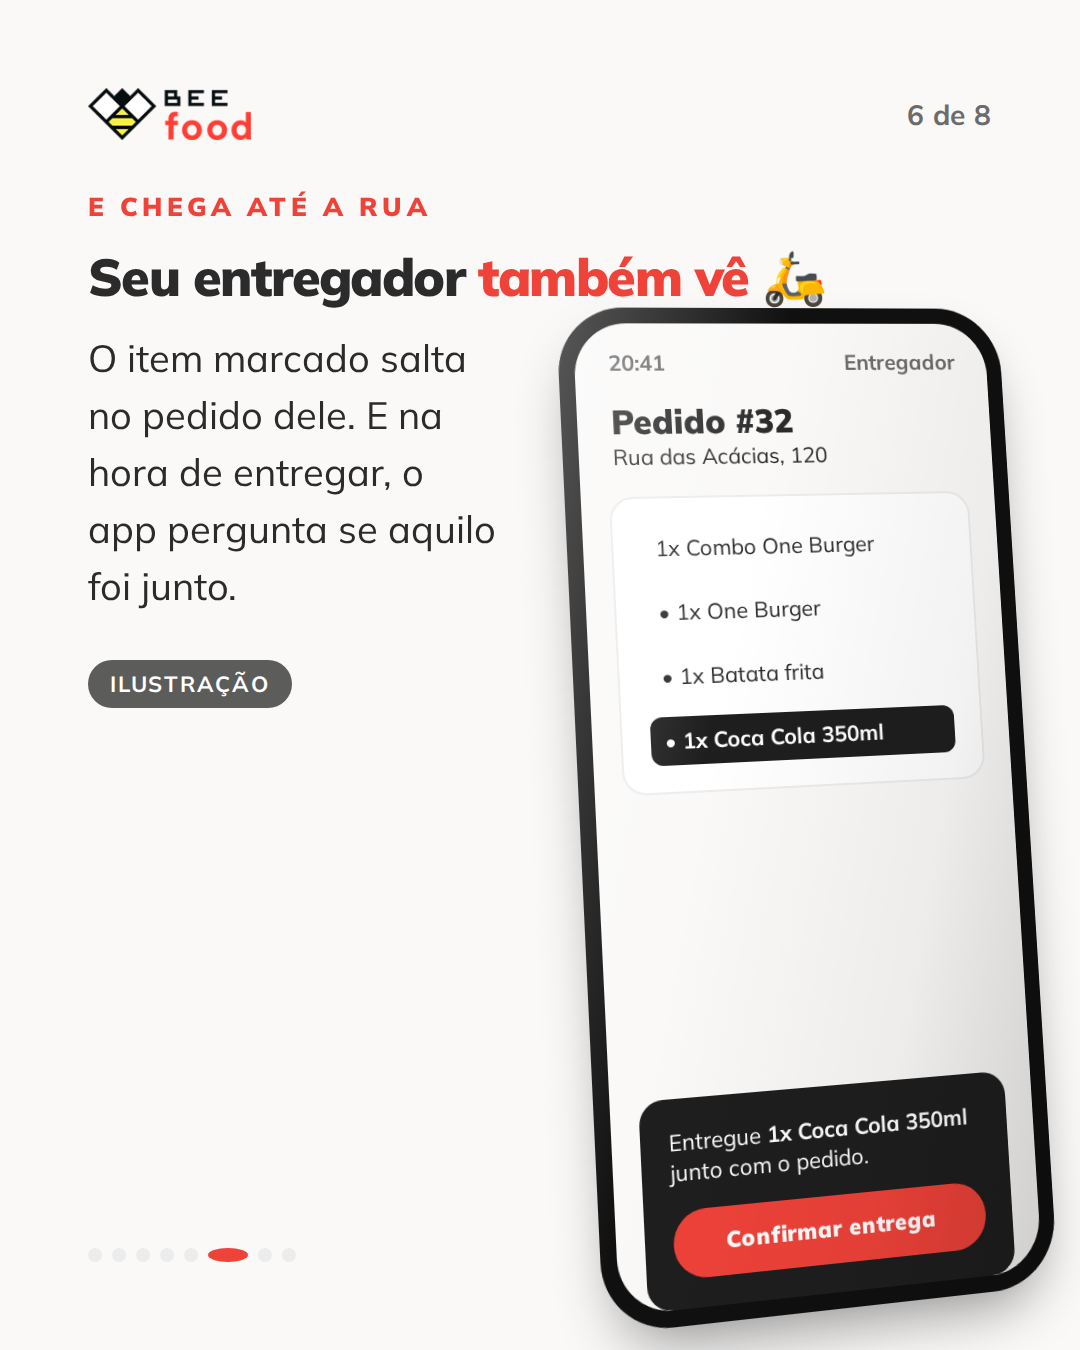
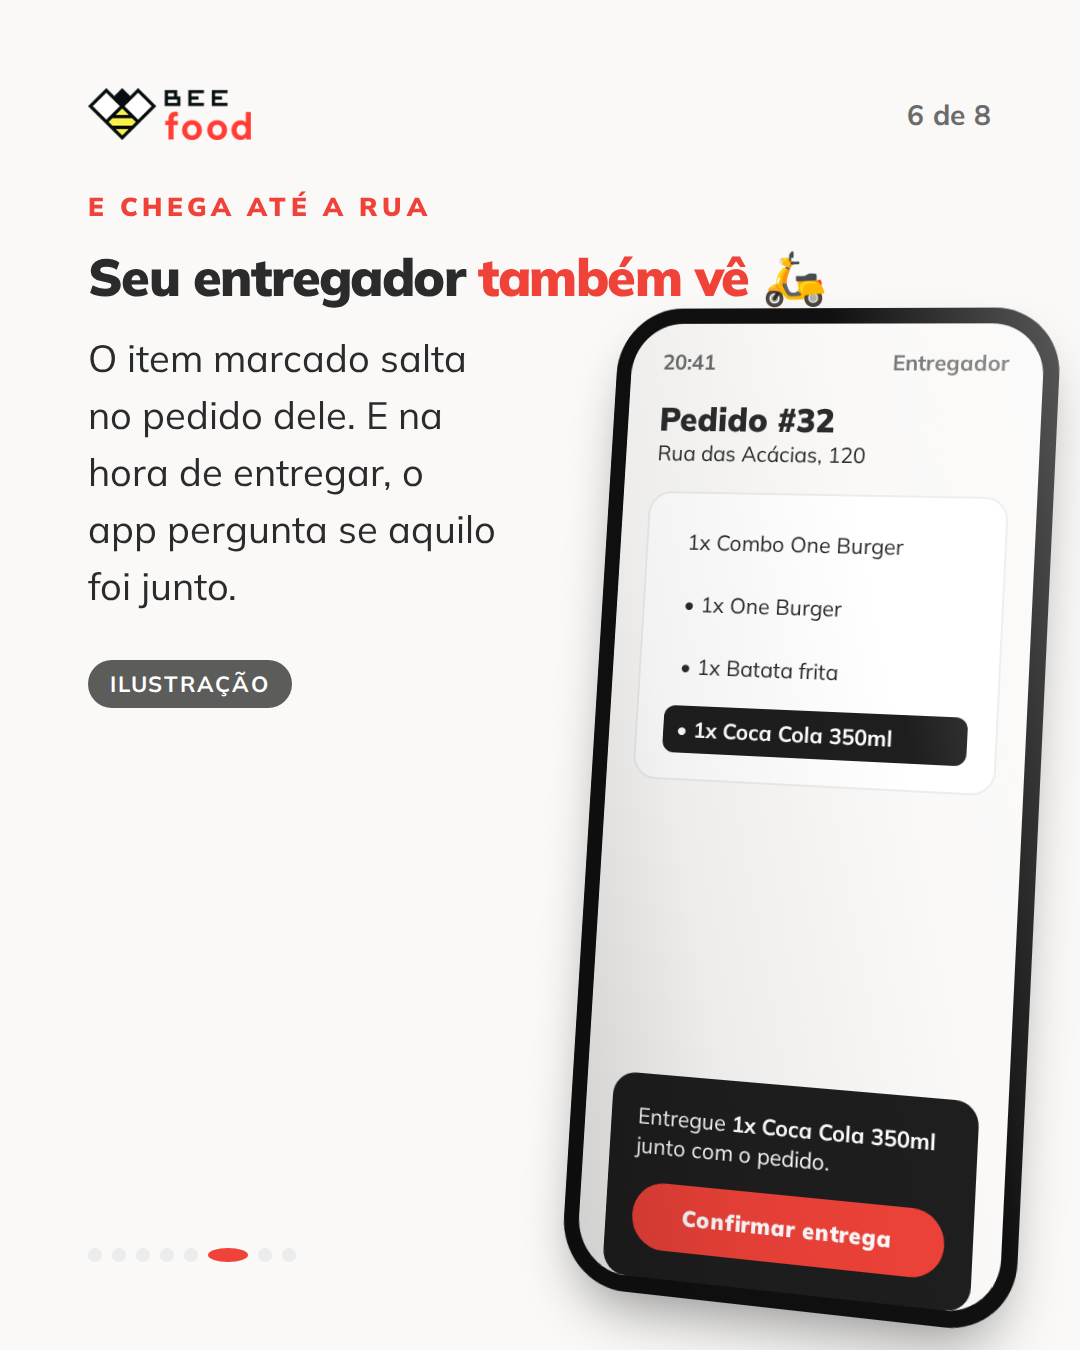
carrossel: 3D sempre virado para dentro, e classe nomeada pelo lado do mockup
- .g3d--na-direita / --na-esquerda substituem --direita / --esquerda: o nome
  passa a ser o lado do slide em que o mockup esta, e o giro e sempre para
  dentro, com a quina que aponta para o texto afundando
- luz e sombra espelham junto com o giro, vindo do lado da quina da frente
- slide 6 e o modelo ilustracao-app.html invertidos; o vao entre a coluna de
  texto e o aparelho passou de 51 para 71 px no ponto mais estreito

Changed region(s): [[0.5194, 0.2178, 1.0, 1.0]]

diff --git a/.cursor/skills/carrossel-novidades/assets/slides/base.css b/.cursor/skills/carrossel-novidades/assets/slides/base.css
@@ -408,10 +408,12 @@ body {
 
 .g3d {
   position: relative;
-  box-shadow: -34px 54px 92px -34px rgba(0, 0, 0, 0.55);
 }
 
-/* Luz de cima à esquerda: sem ela a face girada sai chapada e o 3D não lê. */
+/* Luz e sombra têm de vir do mesmo lado da quina que está na frente, senão a
+ * face girada sai chapada e o 3D não lê. O padrão serve o caso comum — mockup na
+ * direita, quina de fora à frente, luz de cima à direita e sombra caindo para a
+ * esquerda; `--na-esquerda` espelha as duas coisas. */
 .g3d::after {
   content: "";
   position: absolute;
@@ -419,23 +421,38 @@ body {
   z-index: 2;
   pointer-events: none;
   border-radius: inherit;
-  background: linear-gradient(104deg,
+  background: linear-gradient(-104deg,
     rgba(255, 255, 255, 0.30) 0%,
     rgba(255, 255, 255, 0) 34%,
     rgba(0, 0, 0, 0.05) 70%,
     rgba(0, 0, 0, 0.18) 100%);
 }
 
-/* Nome pela borda que recua. Objeto encostado na direita do slide usa
- * `--direita`: a borda de fora afunda e a de dentro, a que o texto aponta, vem
- * para frente. Girar ao contrário faz a quina de fora crescer e invadir a
- * margem. */
-.g3d--direita {
-  transform: rotateY(14deg) rotateX(5deg) rotateZ(-2deg);
+/* SEMPRE VIRADO PARA DENTRO, e o nome é pelo lado do slide em que o mockup
+ * está, não pelo eixo do `rotateY` — assim não dá para usar errado.
+ *
+ * Mockup encostado na direita usa `--na-direita`: a quina de dentro, a que
+ * aponta para o texto, é a que afunda, e o aparelho parece entrar no slide.
+ * Girado ao contrário, a face abre para o texto e o aparelho parece cair para
+ * fora da arte; também aperta o vão entre a coluna de texto e o mockup, porque a
+ * quina de dentro é que vem para frente.
+ */
+.g3d--na-direita {
+  transform: rotateY(-14deg) rotateX(5deg) rotateZ(2deg);
+  box-shadow: -34px 54px 92px -34px rgba(0, 0, 0, 0.55);
 }
 
-.g3d--esquerda {
-  transform: rotateY(-14deg) rotateX(5deg) rotateZ(2deg);
+.g3d--na-esquerda {
+  transform: rotateY(14deg) rotateX(5deg) rotateZ(-2deg);
+  box-shadow: 34px 54px 92px -34px rgba(0, 0, 0, 0.55);
+}
+
+.g3d--na-esquerda::after {
+  background: linear-gradient(104deg,
+    rgba(255, 255, 255, 0.30) 0%,
+    rgba(255, 255, 255, 0) 34%,
+    rgba(0, 0, 0, 0.05) 70%,
+    rgba(0, 0, 0, 0.18) 100%);
 }
 
 /* Moldura de celular: proporção 390×844 do cardápio público. */

diff --git a/.cursor/skills/carrossel-novidades/assets/slides/ilustracao-app.html b/.cursor/skills/carrossel-novidades/assets/slides/ilustracao-app.html
@@ -19,7 +19,10 @@
      centro e girar; aparelho sozinho na faixa vai centralizado e reto
      (`mockup-celular.html`). Como a base da tela aparece, a barra de ação vai
      para lá com `flex: 1` no corpo e `margin-top: auto` no aviso — sem isso
-     sobra um vazio de 300 px e a tela parece render pela metade. -->
+     sobra um vazio de 300 px e a tela parece render pela metade.
+
+     O giro é sempre para dentro: `--na-direita` porque o aparelho está encostado
+     na direita, e aí a quina que afunda é a que aponta para o texto. -->
 <div class="slide slide--suave">
   <div class="topo">
     <span class="logo"></span>
@@ -41,7 +44,7 @@
   <span class="selo-ilustracao" style="left: 88px; top: 660px">Ilustração</span>
 
   <div class="sangria cena3d" style="top: 300px; right: 40px; width: 462px">
-    <div class="celular g3d g3d--direita">
+    <div class="celular g3d g3d--na-direita">
       <div class="celular__tela">
         <!-- Tela estreita: a tipografia da ilustração desce junto (22 px), senão
              cada aviso vira quatro linhas. -->

diff --git a/carrosseis/destaque-impressao/slides/06-na-rua.html b/carrosseis/destaque-impressao/slides/06-na-rua.html
@@ -27,7 +27,7 @@
        Aqui ninguém precisa ler rótulo miúdo, então a perspectiva só ajuda; no
        slide 4, onde o leitor tem que achar o botão, o mockup fica reto. -->
   <div class="sangria cena3d" style="top: 300px; right: 40px; width: 462px">
-    <div class="celular g3d g3d--direita">
+    <div class="celular g3d g3d--na-direita">
       <div class="celular__tela">
         <!-- Tela 20% mais estreita que a do slide 8: a tipografia da ilustração
              desce junto, senão o aviso vira quatro linhas. -->

diff --git a/.cursor/skills/carrossel-novidades/references/MEMORIA-CARROSSEIS.md b/.cursor/skills/carrossel-novidades/references/MEMORIA-CARROSSEIS.md
@@ -281,15 +281,27 @@ faz a imagem funcionar no feed.
 Três coisas que fazem o 3D ler como 3D:
 
 1. **Luz.** Face girada sem gradiente fica chapada. O `.g3d::after` joga um
-   clarão de cima à esquerda e escurece a quina que recua.
-2. **Sombra deslocada.** Sombra centrada continua parecendo adesivo.
+   clarão do lado da quina que está na frente e escurece a que recua.
+2. **Sombra deslocada**, e caindo para o lado oposto à luz. Sombra centrada
+   continua parecendo adesivo.
 3. **Giro pequeno.** 14° em Y, 5° em X e 2° em Z. Acima disso a borda de fora
    cresce e invade a margem, e o texto da tela começa a distorcer.
 
-O nome da classe é pela borda que **recua**: objeto encostado na direita do slide
-usa `.g3d--direita`, a borda de fora afunda e a de dentro (a que o texto aponta)
-vem para frente. Girado ao contrário, a quina de fora cresce e o papel parece
-estar caindo para fora do slide — foi o primeiro render desta rodada.
+**Sempre virado para dentro.** A quina que afunda é a **de dentro**, a que aponta
+para o texto: o aparelho parece entrar no slide. Girado ao contrário, a face abre
+para o texto, a quina de dentro vem para frente e o aparelho parece estar caindo
+para fora da arte — é o que estava no primeiro render do slide 6.
+
+O ganho é medível, não é só gosto: no slide 6, com a coluna de texto acabando em
+x 500, o vão mais estreito entre texto e aparelho passou de 51 para 71 px, e na
+altura do primeiro parágrafo, de 72 para 134 px. A quina que recua abre espaço
+exatamente onde o texto está.
+
+Por isso o nome da classe é **pelo lado do slide em que o mockup está**, não pelo
+eixo do `rotateY`: `.g3d--na-direita` e `.g3d--na-esquerda`. Nomear pela borda que
+recua (`--direita`/`--esquerda`, como estava) obriga a refazer a conta a cada
+slide, e a conta saiu errada na primeira vez. Cada variante leva a luz e a sombra
+espelhadas junto — luz do lado da quina da frente, sombra caindo para o outro.
 
 **Onde não usar:** no slide em que o leitor precisa ler rótulo de interface. A
 face que recua come contraste justo onde está a informação. Neste carrossel o

diff --git a/carrosseis/destaque-impressao/roteiro.md b/carrosseis/destaque-impressao/roteiro.md
@@ -90,7 +90,7 @@ térmica não tem canto arredondado — os 24 px de fábrica do `.recorte` fazia
 papel parecer cartão.
 
 **E o papel fica centralizado, grande e reto.** A versão anterior encostava o
-cupom na direita e o inclinava em `.cena3d`/`.g3d--direita`: virava objeto
+cupom na direita e o inclinava em `.cena3d`/`.g3d`: virava objeto
 fotografado na bancada, mas deixava a metade esquerda do slide vazia **e** saía
 menor, porque a inclinação come altura. Centralizado em `.figura`, o mesmo
 recorte foi a 728 px — o máximo que cabe entre o subtítulo e o "Arraste" — e
@@ -113,6 +113,13 @@ na capa, em tamanho grande.
 412 px ao lado dele — é o texto ao lado que dá licença para o aparelho sair do
 centro e girar. Ali o texto da tela é grande e ninguém precisa ler rótulo de
 interface, então o giro só ajuda.
+
+**E ele gira para dentro** (`.g3d--na-direita`): a quina que afunda é a esquerda,
+a que aponta para o texto. O primeiro render girava ao contrário — a face abria
+para o texto, a quina de dentro vinha para frente e o aparelho parecia cair para
+fora da arte, além de apertar o vão entre a coluna de texto e o mockup. Medido na
+tinta do PNG, com a coluna de texto acabando em x 500: o vão mais estreito passou
+de 51 para 71 px, e na altura do primeiro parágrafo, de 72 para 134 px.
 
 No slide 4 o leitor tem que achar o interruptor: a face que recua come contraste
 justo onde está a informação, e o mockup fica reto. No slide 8 o celular está

diff --git a/.cursor/skills/carrossel-novidades/SKILL.md b/.cursor/skills/carrossel-novidades/SKILL.md
@@ -185,9 +185,11 @@ escala, e o corte passa a sensação de que a tela continua.
 
 #### Mockup 3D, só quando divide a faixa
 
-`.cena3d` no contêiner e `.g3d .g3d--direita` (ou `--esquerda`) no mockup põem o
-aparelho em perspectiva. O nome é pela borda que **recua**: objeto encostado na
-direita do slide usa `--direita`, e a quina de fora afunda.
+`.cena3d` no contêiner e `.g3d .g3d--na-direita` (ou `--na-esquerda`) no mockup
+põem o aparelho em perspectiva. O modificador é o **lado do slide em que o mockup
+está**, e o giro é sempre **para dentro**: a quina que aponta para o texto é a que
+afunda, e o aparelho parece entrar no slide. Ao contrário, ele parece cair para
+fora da arte.
 
 - **Só com conteúdo ao lado.** É a coluna de texto ao lado que dá licença para o
   mockup sair do centro e girar. Sozinho na faixa, ele vai centralizado, grande e
